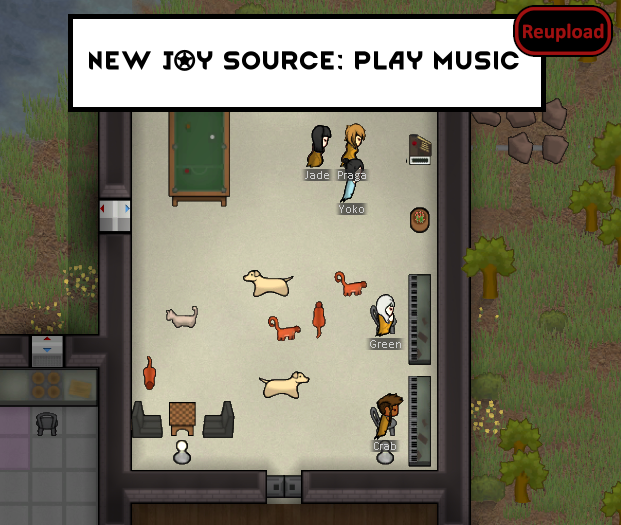
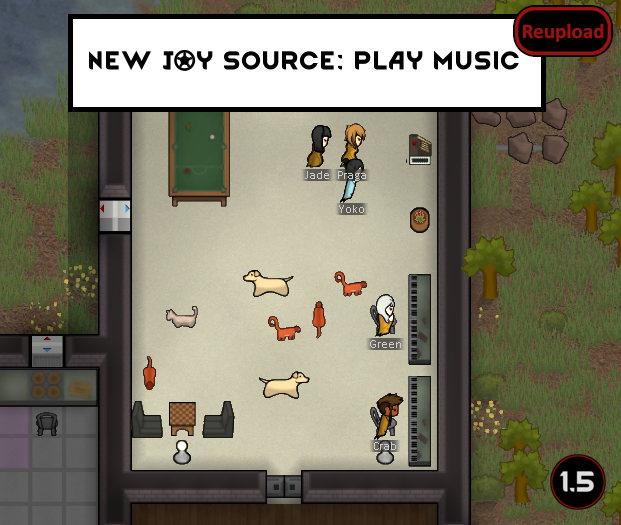
Mod updated for 1.5 and passed autotests

Changed region(s): [[0.8873, 0.8533, 0.9791, 0.9752]]

diff --git a/README.md b/README.md
@@ -37,11 +37,13 @@ Thanks! Enjoy!
 
 -  See if the the error persists if you just have this mod and its requirements active.
 -  If not, try adding your other mods until it happens again.
--  Post your error-log using https://steamcommunity.com/workshop/filedetails/?id=818773962]HugsLib and command Ctrl+F12
+-  Post your error-log using https://steamcommunity.com/workshop/filedetails/?id=818773962]HugsLib or the standalone https://steamcommunity.com/sharedfiles/filedetails/?id=2873415404]Uploader and command Ctrl+F12
 -  For best support, please use the Discord-channel for error-reporting.
 -  Do not report errors by making a discussion-thread, I get no notification of that.
 -  If you have the solution for a problem, please post it to the GitHub repository.
+-  Use https://github.com/RimSort/RimSort/releases/latest]RimSort to sort your mods
 
 
 
+https://steamcommunity.com/sharedfiles/filedetails/changelog/2032918797]![Image](https://img.shields.io/github/v/release/emipa606/NewJoySourcePlayMusic?label=latest%20version&style=plastic&color=9f1111&labelColor=black)
 
